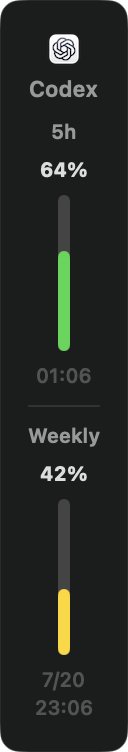
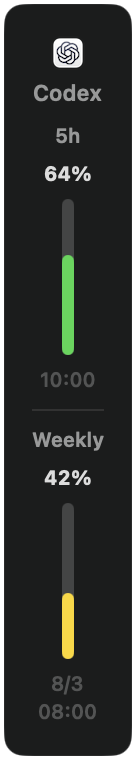
Release Codex Usage HUD v1.8.3

diff --git a/Sources/CodexUsageHUD/Models/UsageModels.swift b/Sources/CodexUsageHUD/Models/UsageModels.swift
@@ -190,13 +190,7 @@ struct UsageSnapshot {
         let positionalPrimary = UsageWindow(source: rateLimit?.primary)
         guard provider == .codex else { return positionalPrimary }
 
-        let windows = [positionalPrimary, UsageWindow(source: rateLimit?.secondary)].compactMap { $0 }
-        if let fiveHour = windows.first(where: \.isFiveHourWindow) {
-            return fiveHour
-        }
-        // If a duration-labelled weekly window is the only Codex window, the
-        // API has promoted it to `primary_window`; do not present it as 5-hour.
-        return windows.contains(where: \.isWeeklyWindow) ? nil : positionalPrimary
+        return displayWindows.first(where: { $0.kind == .fiveHour })?.window
     }
 
     var secondaryWindow: UsageWindow? {
@@ -207,8 +201,7 @@ struct UsageSnapshot {
         let positionalSecondary = UsageWindow(source: rateLimit?.secondary)
         guard provider == .codex else { return positionalSecondary }
 
-        let windows = [UsageWindow(source: rateLimit?.primary), positionalSecondary].compactMap { $0 }
-        return windows.first(where: \.isWeeklyWindow) ?? positionalSecondary
+        return displayWindows.first(where: { $0.kind == .weekly })?.window
     }
 
     /// All available windows in their expanded-HUD order. Codex windows are
@@ -226,6 +219,13 @@ struct UsageSnapshot {
             ].compactMap { $0 }
         }
 
+        let knownKinds = positional.compactMap { window -> UsageWindowKind? in
+            guard let window else { return nil }
+            if window.isFiveHourWindow { return .fiveHour }
+            if window.isWeeklyWindow { return .weekly }
+            return nil
+        }
+
         var result: [UsageDisplayWindow] = []
         for (index, window) in positional.enumerated() {
             guard let window else { continue }
@@ -233,6 +233,14 @@ struct UsageSnapshot {
             if window.isFiveHourWindow {
                 kind = .fiveHour
             } else if window.isWeeklyWindow {
+                kind = .weekly
+            } else if knownKinds.contains(.weekly) {
+                // If the weekly window was promoted into the primary slot,
+                // the remaining unlabelled window is the short usage window.
+                kind = .fiveHour
+            } else if knownKinds.contains(.fiveHour) {
+                // Likewise, keep the second unlabelled window visible as the
+                // weekly window instead of silently de-duplicating it.
                 kind = .weekly
             } else {
                 kind = index == 0 ? .fiveHour : .weekly

diff --git a/Sources/CodexUsageHUD/Views/HUDView.swift b/Sources/CodexUsageHUD/Views/HUDView.swift
@@ -71,7 +71,7 @@ struct HUDView: View {
         guard collapsedMode.isActive, collapsedRowCount > 1 else {
             return EdgeInsets(top: 7, leading: 0, bottom: 7, trailing: 0)
         }
-        return EdgeInsets(top: 16, leading: 0, bottom: 28, trailing: 0)
+        return EdgeInsets(top: 22, leading: 0, bottom: 22, trailing: 0)
     }
 
     private var activeQuotaItems: [ActiveQuotaItem] {
@@ -376,7 +376,7 @@ struct HUDView: View {
                     Text(lastError)
                         .font(.caption)
                         .foregroundStyle(.red)
-                        .lineLimit(3)
+                        .lineLimit(1)
                         .frame(maxWidth: .infinity, alignment: .leading)
                 }
             }
@@ -459,7 +459,7 @@ struct HUDView: View {
                 codexTokenSection
             }
 
-            if viewModel.snapshot?.isSourceStale == true {
+            if viewModel.snapshot?.isSourceStale == true, viewModel.lastError == nil {
                 Text(L10n.text(.staleClaudeData, language: appLanguage))
                     .font(.caption2)
                     .foregroundStyle(.orange)
@@ -720,13 +720,13 @@ struct HUDView: View {
         hoverCollapseTask?.cancel()
         hoverCollapseTask = nil
 
-        guard !isInside, !isCollapsed else {
+        guard !isInside, !isCollapsed, !viewModel.activitySummary.hasActivity else {
             return
         }
 
         hoverCollapseTask = Task { @MainActor in
             try? await Task.sleep(for: .milliseconds(900))
-            guard !Task.isCancelled, !isCollapsed else {
+            guard !Task.isCancelled, !isCollapsed, !viewModel.activitySummary.hasActivity else {
                 return
             }
             isCollapsed = true

diff --git a/Tests/CodexUsageHUDTests/OAuthUsageParsingTests.swift b/Tests/CodexUsageHUDTests/OAuthUsageParsingTests.swift
@@ -129,6 +129,30 @@ struct OAuthUsageParsingTests {
         #expect(snapshot.secondaryWindow?.remainingPercent == 96)
     }
 
+    @Test func keepsBothWindowsWhenWeeklyIsPrimaryAndShortWindowIsUnlabelled() {
+        let snapshot = makeSnapshot(
+            primary: RateLimitWindow(usedPercent: 40, windowDurationMins: 10_080, resetsAt: nil),
+            secondary: RateLimitWindow(usedPercent: 20, windowDurationMins: nil, resetsAt: nil)
+        )
+
+        #expect(snapshot.displayWindows.map(\.kind) == [.fiveHour, .weekly])
+        #expect(snapshot.collapsedDisplayWindows.count == 2)
+        #expect(snapshot.primaryWindow?.remainingPercent == 80)
+        #expect(snapshot.secondaryWindow?.remainingPercent == 60)
+    }
+
+    @Test func keepsBothWindowsWhenFiveHourIsKnownAndWeeklyIsUnlabelled() {
+        let snapshot = makeSnapshot(
+            primary: RateLimitWindow(usedPercent: 40, windowDurationMins: nil, resetsAt: nil),
+            secondary: RateLimitWindow(usedPercent: 20, windowDurationMins: 300, resetsAt: nil)
+        )
+
+        #expect(snapshot.displayWindows.map(\.kind) == [.fiveHour, .weekly])
+        #expect(snapshot.collapsedDisplayWindows.count == 2)
+        #expect(snapshot.primaryWindow?.remainingPercent == 80)
+        #expect(snapshot.secondaryWindow?.remainingPercent == 60)
+    }
+
     @Test func returnsToDefaultModeWhenFiveHourWindowReappears() {
         let snapshot = makeSnapshot(
             primary: RateLimitWindow(usedPercent: 20, windowDurationMins: 300, resetsAt: nil),

diff --git a/Sources/CodexUsageHUD/Services/AgentActivityMonitor.swift b/Sources/CodexUsageHUD/Services/AgentActivityMonitor.swift
@@ -12,6 +12,7 @@ final class AgentActivityMonitor {
     private var debounceTask: Task<Void, Never>?
     private var fallbackTask: Task<Void, Never>?
     private var reloadTask: Task<Void, Never>?
+    private var reloadRequestedWhileBusy = false
     private(set) var isRunning = false
 
     init(startedAt: Date) {
@@ -43,6 +44,7 @@ final class AgentActivityMonitor {
         fallbackTask = nil
         reloadTask?.cancel()
         reloadTask = nil
+        reloadRequestedWhileBusy = false
         removeSources()
     }
 
@@ -62,7 +64,12 @@ final class AgentActivityMonitor {
     }
 
     private func reload() {
-        guard isRunning, reloadTask == nil else { return }
+        guard isRunning else { return }
+        guard reloadTask == nil else {
+            reloadRequestedWhileBusy = true
+            return
+        }
+        reloadRequestedWhileBusy = false
         let startedAt = startedAt
         reloadTask = Task { [weak self] in
             let readings = await Task.detached(priority: .utility) {
@@ -72,6 +79,9 @@ final class AgentActivityMonitor {
             self.handler?(readings)
             self.configureSources()
             self.reloadTask = nil
+            if self.reloadRequestedWhileBusy {
+                self.scheduleReload(delay: .zero)
+            }
         }
     }
 

diff --git a/Sources/CodexUsageHUD/App/CodexUsageHUDApp.swift b/Sources/CodexUsageHUD/App/CodexUsageHUDApp.swift
@@ -15,6 +15,12 @@ struct CodexUsageHUDApp: App {
         AppPreferencesMigration.apply()
 #if DEBUG
         if let scenario = DemoPresentation.scenarioFromEnvironment {
+            UserDefaults.standard.removeObject(forKey: DefaultsKey.windowX)
+            UserDefaults.standard.removeObject(forKey: DefaultsKey.windowY)
+            UserDefaults.standard.set(HUDSnapEdge.right.rawValue, forKey: DefaultsKey.snapEdge)
+            if let visibleFrame = NSScreen.main?.visibleFrame {
+                UserDefaults.standard.set(visibleFrame.midY, forKey: DefaultsKey.railMidY)
+            }
             UserDefaults.standard.set(
                 scenario == .idle || scenario == .weeklyOnlyCollapsed || scenario == .running || scenario == .runningWithCompletion || scenario == .needsConfirmation || scenario == .singleTaskCompleted,
                 forKey: DefaultsKey.collapsed)

diff --git a/Sources/CodexUsageHUD/Support/DemoPresentation.swift b/Sources/CodexUsageHUD/Support/DemoPresentation.swift
@@ -21,7 +21,7 @@ struct DemoPresentation {
     }
 
     let scenario: Scenario
-    private let now = Date(timeIntervalSince1970: 1_784_214_400)
+    private let now = Date(timeIntervalSince1970: 1_785_369_600)
 
     init(scenario: Scenario) {
         self.scenario = scenario

diff --git a/Sources/CodexUsageHUD/Support/AppMetadata.swift b/Sources/CodexUsageHUD/Support/AppMetadata.swift
@@ -1,6 +1,6 @@
 import Foundation
 
 enum AppMetadata {
-    static let version = "1.8.2"
+    static let version = "1.8.3"
     static let bundleIdentifier = "io.github.yaooop-tech.codexusagehud"
 }

diff --git a/docs/RELEASE_NOTES_v1.8.3.md b/docs/RELEASE_NOTES_v1.8.3.md
@@ -1,0 +1,31 @@
+# Codex Usage HUD v1.8.3
+
+## Highlights
+
+- Fixed activity monitoring when several file events arrive during an in-progress scan. The HUD now queues an immediate follow-up refresh instead of dropping the final start or completion update.
+- Restored reliable real activity after documentation captures by keeping demonstration data in debug-only builds. The downloadable app contains no demonstration override.
+- Prevented hover auto-collapse while task activity is visible, and balanced the divider spacing in the collapsed dual-window activity layout.
+- Improved Codex window detection when the weekly window appears in the primary API slot and the short window has no duration label.
+- Kept expanded error presentation compact so the fixed-size HUD remains stable.
+
+## Notes
+
+- Apple Silicon only; requires macOS 14 or later.
+- This preview remains ad-hoc signed and not notarized. See the README for first-launch Gatekeeper steps.
+- The ZIP includes only the app and required helper. A SHA-256 checksum is provided alongside the download.
+
+---
+
+## 中文说明
+
+- 修复活动监听刷新期间连续收到多个文件事件时，最后一条状态可能被漏掉的问题。现在会立即补充刷新，不再让任务开始或完成状态滞留到兜底轮询。
+- 截图演示数据仅存在于调试构建中，可下载 App 不包含演示状态覆盖。
+- 任务活动可见时不再因鼠标移出而自动收起，并统一双额度活动态分割线与上下内容的间距。
+- 改进 Codex 额度窗口识别：当周限额出现在 API 主窗口、短窗口缺少时长标记时，仍能正确保留并展示两种额度。
+- 压缩展开态错误信息占用空间，保持固定尺寸 HUD 稳定。
+
+## 提醒
+
+- 仅支持 Apple Silicon，要求 macOS 14 或更高版本。
+- 本体验版采用临时签名且未公证；首次启动的 Gatekeeper 放行步骤请见 README。
+- ZIP 只含 App 和必需辅助程序；下载页同时提供 SHA-256 校验文件。
